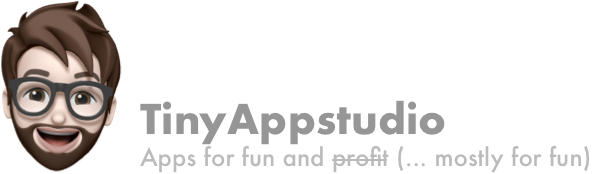
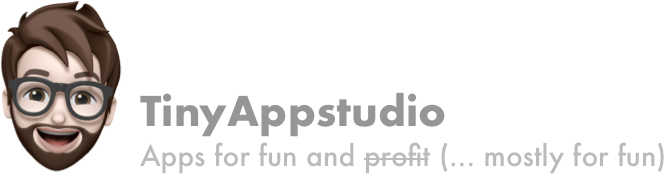
Updates layout

Changed region(s): [[0.0, 0.0, 1.0, 1.0], [0.9697, 0.8046, 1.0, 0.8333]]

diff --git a/index.html b/index.html
@@ -21,7 +21,7 @@
 	    
 	    .item {
 		    width: 615px;
-		    height: 259px;
+		    height: 264px;
 		    margin-bottom: 32px;
 	    }
 
@@ -33,8 +33,8 @@
 	    }
 	    
 	    .header {
-		    width: 296px;
-		    height: 86px;
+		    width: 334px;
+		    height: 87px;
 		    margin-bottom: 96px;
 	    }
 	    
